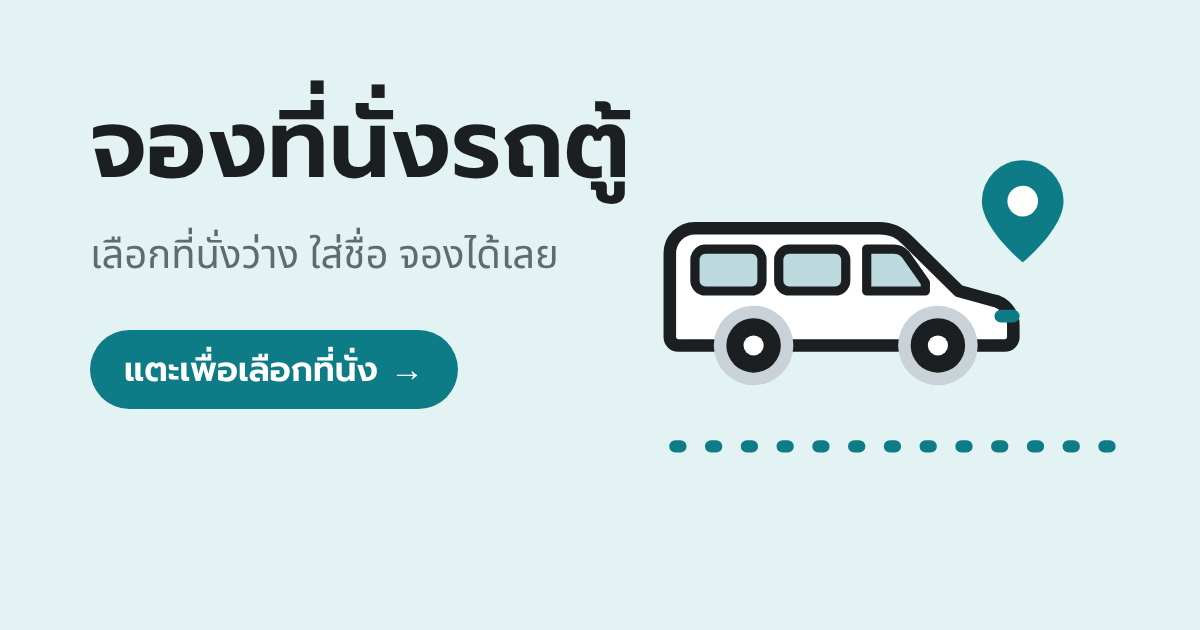
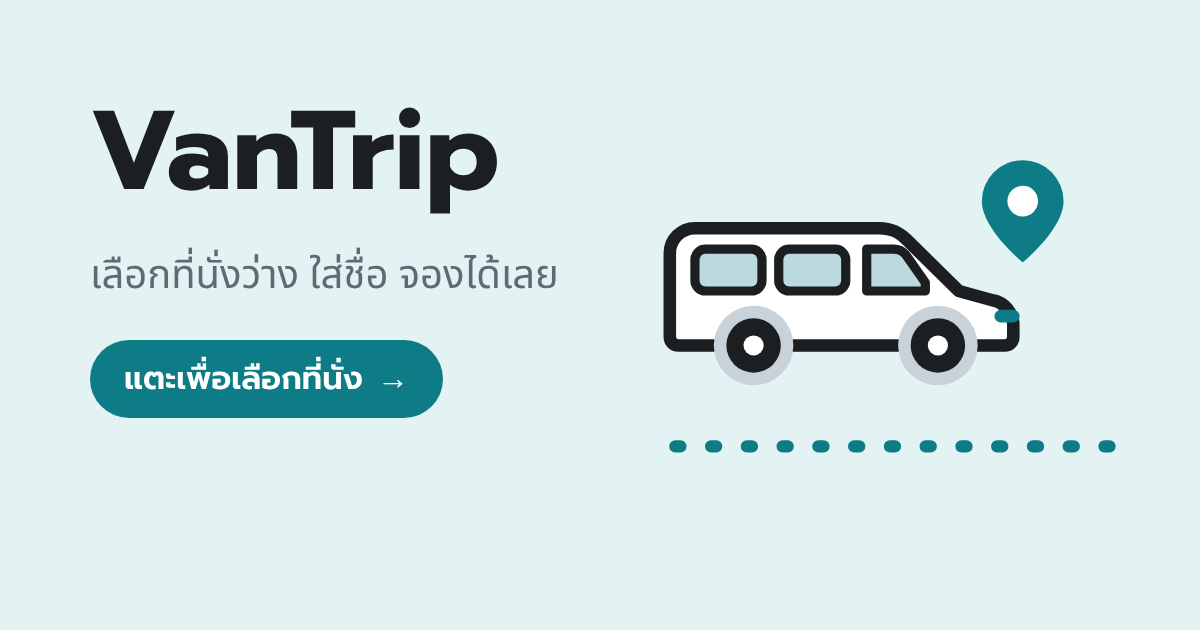
App name is now VanTrip: top bars, page titles, link preview card (og.png), footer, Stripe item name, terms and privacy text; tagline 'สร้างทริป แชร์ลิงก์ เลือกที่นั่งรถตู้'. Page texts unchanged
Claude-Session: https://claude.ai/code/session_01Wx8beBWv1GqdUYSv5XJBRF

diff --git a/book.html b/book.html
@@ -6,15 +6,15 @@
 <style>
 button { padding-top: 0; padding-bottom: 0; } /* drop the browser's 1px so every size stays even */html { touch-action: manipulation; }</style>
 <script>/* no pinch zoom */["gesturestart","gesturechange","gestureend"].forEach(function(t){document.addEventListener(t,function(e){e.preventDefault()},{passive:false})});document.addEventListener("touchmove",function(e){if(e.touches.length>1&&e.scale&&e.scale!==1)e.preventDefault()},{passive:false});</script>
-<title>จองที่นั่งรถตู้</title>
+<title>VanTrip</title>
 <meta name="description" content="เลือกที่นั่งว่าง ใส่ชื่อ แล้วจองได้เลย">
 <meta property="og:type" content="website">
-<meta property="og:title" content="จองที่นั่งรถตู้">
+<meta property="og:title" content="VanTrip">
 <meta property="og:description" content="เลือกที่นั่งว่าง ใส่ชื่อ แล้วจองได้เลย">
 <meta property="og:image" content="https://van-seat-booking.vercel.app/og.png">
 <meta property="og:image:width" content="1200">
 <meta property="og:image:height" content="630">
-<meta property="og:image:alt" content="จองที่นั่งรถตู้ · แตะเพื่อเลือกที่นั่ง">
+<meta property="og:image:alt" content="VanTrip · แตะเพื่อเลือกที่นั่ง">
 <meta name="twitter:card" content="summary_large_image">
 <link rel="stylesheet" href="https://fonts.googleapis.com/css2?family=Noto+Sans+Thai:wght@400;500;600&family=Prompt:wght@400;500;600&display=swap">
 <style>
@@ -441,7 +441,7 @@ body.signed .hbar .lback svg{width:20px;height:20px}
 <body class="sk">
 <main>
   <header class="trip" id="tripHdr">
-    <div class="hbar"><a class="lback" id="lback" href="/mytrips" aria-label="กลับ"><svg viewBox="0 0 24 24" fill="none" stroke="currentColor" stroke-width="2" stroke-linecap="round" stroke-linejoin="round" aria-hidden="true"><path d="M15 6l-6 6 6 6"/></svg></a><a class="brand" href="/mytrips">จองที่นั่งรถตู้</a><span class="bellhost" id="bellHost"></span><a class="acct" id="acct" href="/mytrips" hidden></a></div>
+    <div class="hbar"><a class="lback" id="lback" href="/mytrips" aria-label="กลับ"><svg viewBox="0 0 24 24" fill="none" stroke="currentColor" stroke-width="2" stroke-linecap="round" stroke-linejoin="round" aria-hidden="true"><path d="M15 6l-6 6 6 6"/></svg></a><a class="brand" href="/mytrips">VanTrip</a><span class="bellhost" id="bellHost"></span><a class="acct" id="acct" href="/mytrips" hidden></a></div>
     <div class="hero"><span class="pgi" aria-hidden="true"></span><div class="ht"><h1>เลือกที่นั่ง</h1>
     <div class="org"><span>แตะที่ว่าง</span> <span>ใส่ชื่อ</span> <span>แล้วจองได้เลย</span></div></div></div>
     <div class="ended" id="endedBar" hidden><svg viewBox="0 0 24 24" fill="none" stroke="currentColor" stroke-width="2" stroke-linecap="round" stroke-linejoin="round" aria-hidden="true"><circle cx="12" cy="12" r="9"/><path d="M12 11v5M12 8v.1"/></svg><span><b>ทริปนี้สิ้นสุดแล้ว</b> ปิดรับจอง ดูรายชื่อผู้จองได้อย่างเดียว</span></div>

diff --git a/mytrips.html b/mytrips.html
@@ -490,7 +490,7 @@ body.signed .top .bell-wrap { display: none; } /* bell lives in the bottom bar (
 </script>
 </head>
 <body>
-<div class="top"><section class="abar"><span class="lg" aria-hidden="true"><svg viewBox="0 0 24 24"><path d="M3 16.5V8.5A2.5 2.5 0 0 1 5.5 6h10.2c.7 0 1.3.3 1.8.8l3.2 3.6c.2.3.3.6.3.9v5.2a1 1 0 0 1-1 1H4a1 1 0 0 1-1-1z"/><path d="M6 9.5h3.5v2.5H6zM12 9.5h3.5v2.5H12z"/><circle cx="7.5" cy="17.5" r="1.8" fill="var(--mine)"/><circle cx="16.5" cy="17.5" r="1.8" fill="var(--mine)"/></svg></span><span class="nm"><b>จองที่นั่งรถตู้</b><span>สร้างทริป แชร์ลิงก์ เลือกที่นั่ง</span></span><a class="ab-new" id="abNew" href="/trips/new" hidden><svg viewBox="0 0 24 24"><path d="M12 5v14M5 12h14"/></svg>สร้างทริป</a></section><div><a href="/" style="font:700 16px/24px var(--font-display);color:var(--deep);text-decoration:none">จองที่นั่งรถตู้</a><span class="ltl" id="ltl"><b id="ltT">ทริปที่จัด</b><small id="ltS"></small></span><a class="mkp" id="mkTrip" href="/trips/new">＋ สร้างทริป</a><button class="mkr" id="mkRead" type="button">อ่านทั้งหมด</button><span class="bell-wrap" id="bellHost"></span><button class="acct-pill" id="acctBtn2" type="button" aria-haspopup="dialog" hidden><span class="av" id="topAv"></span><span id="topName"></span></button></div></div>
+<div class="top"><section class="abar"><span class="lg" aria-hidden="true"><svg viewBox="0 0 24 24"><path d="M3 16.5V8.5A2.5 2.5 0 0 1 5.5 6h10.2c.7 0 1.3.3 1.8.8l3.2 3.6c.2.3.3.6.3.9v5.2a1 1 0 0 1-1 1H4a1 1 0 0 1-1-1z"/><path d="M6 9.5h3.5v2.5H6zM12 9.5h3.5v2.5H12z"/><circle cx="7.5" cy="17.5" r="1.8" fill="var(--mine)"/><circle cx="16.5" cy="17.5" r="1.8" fill="var(--mine)"/></svg></span><span class="nm"><b>VanTrip</b><span>สร้างทริป แชร์ลิงก์ เลือกที่นั่งรถตู้</span></span><a class="ab-new" id="abNew" href="/trips/new" hidden><svg viewBox="0 0 24 24"><path d="M12 5v14M5 12h14"/></svg>สร้างทริป</a></section><div><a href="/" style="font:700 16px/24px var(--font-display);color:var(--deep);text-decoration:none">VanTrip</a><span class="ltl" id="ltl"><b id="ltT">ทริปที่จัด</b><small id="ltS"></small></span><a class="mkp" id="mkTrip" href="/trips/new">＋ สร้างทริป</a><button class="mkr" id="mkRead" type="button">อ่านทั้งหมด</button><span class="bell-wrap" id="bellHost"></span><button class="acct-pill" id="acctBtn2" type="button" aria-haspopup="dialog" hidden><span class="av" id="topAv"></span><span id="topName"></span></button></div></div>
 <main>
   <section class="login" id="loginView" hidden>
     <div class="hero">

diff --git a/index.html b/index.html
@@ -7,15 +7,15 @@
 button { padding-top: 0; padding-bottom: 0; } /* drop the browser's 1px so every size stays even */html { touch-action: manipulation; }</style>
 <script>/* signed in on this device: open the app right away */try{if(localStorage.getItem("vsb_in")==="1"&&!/[?&]le=/.test(location.search))location.replace("/mytrips"+(location.hash||""))}catch(e){}</script>
 <script>/* no pinch zoom */["gesturestart","gesturechange","gestureend"].forEach(function(t){document.addEventListener(t,function(e){e.preventDefault()},{passive:false})});document.addEventListener("touchmove",function(e){if(e.touches.length>1&&e.scale&&e.scale!==1)e.preventDefault()},{passive:false});</script>
-<title>จองที่นั่งรถตู้</title>
+<title>VanTrip</title>
 <meta name="description" content="สร้างทริปรถตู้แล้วแชร์ลิงก์ให้เพื่อนเลือกที่นั่งเอง ใช้บัญชี LINE ได้เลย ไม่ต้องสมัคร">
 <meta property="og:type" content="website">
-<meta property="og:title" content="จองที่นั่งรถตู้">
+<meta property="og:title" content="VanTrip">
 <meta property="og:description" content="สร้างทริปรถตู้แล้วแชร์ลิงก์ให้เพื่อนเลือกที่นั่งเอง ใช้บัญชี LINE ได้เลย ไม่ต้องสมัคร">
 <meta property="og:image" content="https://van-seat-booking.vercel.app/og.png">
 <meta property="og:image:width" content="1200">
 <meta property="og:image:height" content="630">
-<meta property="og:image:alt" content="จองที่นั่งรถตู้ · แตะเพื่อเลือกที่นั่ง">
+<meta property="og:image:alt" content="VanTrip · แตะเพื่อเลือกที่นั่ง">
 <meta name="twitter:card" content="summary_large_image">
 <link rel="stylesheet" href="https://fonts.googleapis.com/css2?family=Noto+Sans+Thai:wght@400;500;600&family=Prompt:wght@400;500;600&display=swap">
 <style>
@@ -111,7 +111,7 @@ a.path:active { background: var(--tint); }
 </script>
 </head>
 <body>
-<div class="top"><div><span>จองที่นั่งรถตู้</span><span id="bellHost" style="display:flex;margin-left:auto"></span><a class="acct" id="acct" href="/mytrips" hidden></a></div></div>
+<div class="top"><div><span>VanTrip</span><span id="bellHost" style="display:flex;margin-left:auto"></span><a class="acct" id="acct" href="/mytrips" hidden></a></div></div>
 <main>
   <section class="hero">
     <div class="hr">

diff --git a/terms.html b/terms.html
@@ -4,7 +4,7 @@
 <meta charset="utf-8">
 <meta name="viewport" content="width=device-width, initial-scale=1, viewport-fit=cover">
 <title>เงื่อนไขการใช้งาน</title>
-<meta name="description" content="เงื่อนไขการใช้แอปจองที่นั่งรถตู้ แพ็กเกจ การชำระเงิน และการคืนเงิน">
+<meta name="description" content="เงื่อนไขการใช้แอป VanTrip แพ็กเกจ การชำระเงิน และการคืนเงิน">
 <link rel="stylesheet" href="https://fonts.googleapis.com/css2?family=Noto+Sans+Thai:wght@400;500;600&family=Prompt:wght@400;500;600&display=swap">
 <style>
 button { padding-top: 0; padding-bottom: 0; } /* drop the browser's 1px so every size stays even */
@@ -55,7 +55,7 @@ th,td { border-bottom-color: #e8ecef; }
 
   <section>
     <h2>1. บริการนี้คืออะไร</h2>
-    <p>จองที่นั่งรถตู้เป็นเว็บแอปที่ใช้ผ่าน LINE ให้คนจัดทริปสร้างทริป แชร์ลิงก์ และให้ผู้ร่วมทริปเลือกที่นั่งเอง แอปนี้พัฒนาและดูแลโดยบุคคล ไม่ใช่บริษัท</p>
+    <p>VanTrip เป็นเว็บแอปที่ใช้ผ่าน LINE ให้คนจัดทริปสร้างทริป แชร์ลิงก์ และให้ผู้ร่วมทริปเลือกที่นั่งเอง แอปนี้พัฒนาและดูแลโดยบุคคล ไม่ใช่บริษัท</p>
     <p>การเดินทางจริง รถ คนขับ เวลารถออก และการเก็บเงินค่าทริป เป็นความรับผิดชอบของคนจัดทริป ไม่ใช่ของแอปนี้</p>
   </section>
 

diff --git a/footer.js b/footer.js
@@ -1,5 +1,5 @@
 // One footer for every page: a van driving along a dotted road from the left edge of the screen to the right,
-// a short travel line that changes every 4 s, and "© 2026 จองที่นั่งรถตู้ · ความเป็นส่วนตัว · เงื่อนไข · ติดต่อ".
+// a short travel line that changes every 4 s, and "© 2026 VanTrip · ความเป็นส่วนตัว · เงื่อนไข · ติดต่อ".
 // Use: <footer class="vfoot"></footer><script src="/footer.js"></script>  (a link to the page you're on becomes "กลับหน้าแรก")
 (function () {
   var CONTACT = "phitsanu.tr@outlook.com";
@@ -31,7 +31,7 @@
   function links() {
     var here = location.pathname.replace(/\/+$/, "") || "/", home = '<a href="/">กลับหน้าแรก</a>';
     var parts = [here === "/privacy" ? home : '<a href="/privacy">ความเป็นส่วนตัว</a>', here === "/terms" ? home : '<a href="/terms">เงื่อนไข</a>', '<a href="mailto:' + CONTACT + '">ติดต่อ</a>'];
-    return "© 2026 จองที่นั่งรถตู้ · " + parts.join(" · ");
+    return "© 2026 VanTrip · " + parts.join(" · ");
   }
 
   function mount(f) {

diff --git a/bell.js b/bell.js
@@ -140,7 +140,7 @@
       bk.innerHTML = svg('<path d="M15 6l-6 6 6 6"/>'); bar.appendChild(bk);
       bk.addEventListener("click", function (e) { var r = ""; try { r = new URL(document.referrer).origin; } catch (x) {} if (r === location.origin && history.length > 1 && !/\/trips\//.test(document.referrer)) { e.preventDefault(); history.back(); } });
     }
-    var a = document.createElement("a"); a.className = "vb-brand"; a.href = "/mytrips"; a.textContent = "จองที่นั่งรถตู้";
+    var a = document.createElement("a"); a.className = "vb-brand"; a.href = "/mytrips"; a.textContent = "VanTrip";
     var h = document.createElement("span"); h.style.display = "flex"; bar.appendChild(a); bar.appendChild(h);
     document.body.insertBefore(bar, document.body.firstChild);
     B.load(); // no bell button here: notifications live in the bottom "แจ้งเตือน" tab

diff --git a/privacy.html b/privacy.html
@@ -4,7 +4,7 @@
 <meta charset="utf-8">
 <meta name="viewport" content="width=device-width, initial-scale=1, viewport-fit=cover">
 <title>นโยบายความเป็นส่วนตัว</title>
-<meta name="description" content="ข้อมูลที่แอปจองที่นั่งรถตู้เก็บ ใช้ทำอะไร เก็บนานแค่ไหน และวิธีลบ">
+<meta name="description" content="ข้อมูลที่แอป VanTrip เก็บ ใช้ทำอะไร เก็บนานแค่ไหน และวิธีลบ">
 <link rel="stylesheet" href="https://fonts.googleapis.com/css2?family=Noto+Sans+Thai:wght@400;500;600&family=Prompt:wght@400;500;600&display=swap">
 <style>
 button { padding-top: 0; padding-bottom: 0; } /* drop the browser's 1px so every size stays even */

diff --git a/api/pay.js b/api/pay.js
@@ -149,7 +149,7 @@ module.exports = async function handler(req, res) {
         const back = origin(req) + "/plans?order=" + o.id;
         const sess = await stripe("POST", "checkout/sessions", {
           mode: "payment", payment_method_types: ["promptpay", "card"], locale: "th",
-          line_items: [{ quantity: 1, price_data: { currency: "thb", unit_amount: pr.amount * 100, product_data: { name: "จองที่นั่งรถตู้ · " + s.label } } }],
+          line_items: [{ quantity: 1, price_data: { currency: "thb", unit_amount: pr.amount * 100, product_data: { name: "VanTrip · " + s.label } } }],
           success_url: back, cancel_url: back + "&c=1", client_reference_id: o.id, metadata: { order: o.id, sku: body.sku },
           expires_at: Math.floor(Date.now() / 1000) + 30 * 60,
         });

diff --git a/README.md b/README.md
@@ -1,4 +1,4 @@
-# van-seat-booking
+# VanTrip (van-seat-booking)
 
 เว็บจองที่นั่งรถตู้ (คันละ 10 ที่นั่ง) ผู้จัดสร้างทริปแล้วแชร์ลิงก์ เพื่อนเข้าด้วย LINE แล้วแตะเลือกที่นั่งเอง ใช้ผ่านเบราว์เซอร์ใน LINE ได้
 
